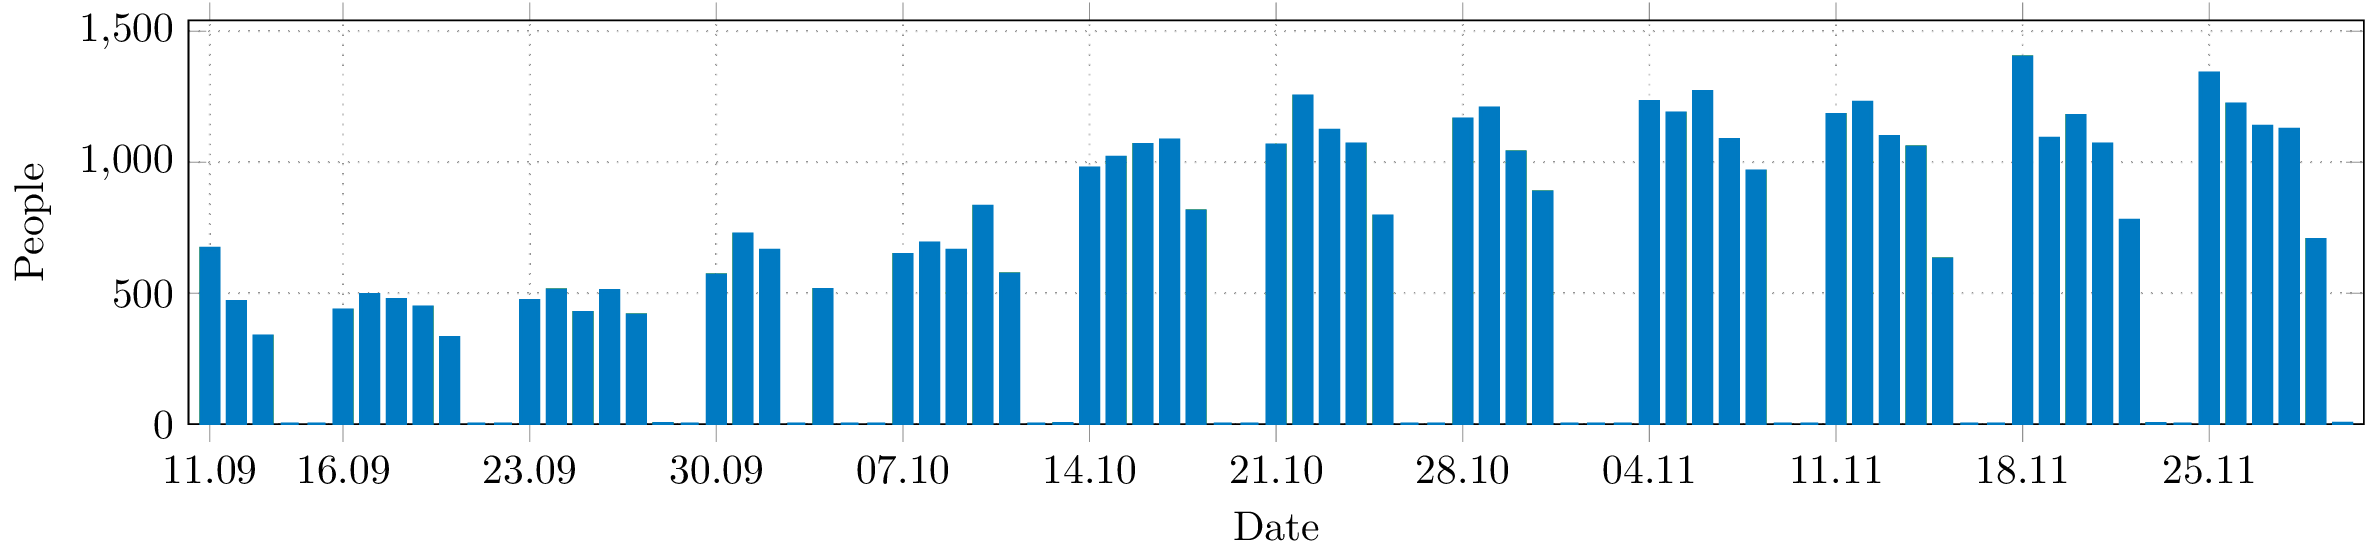
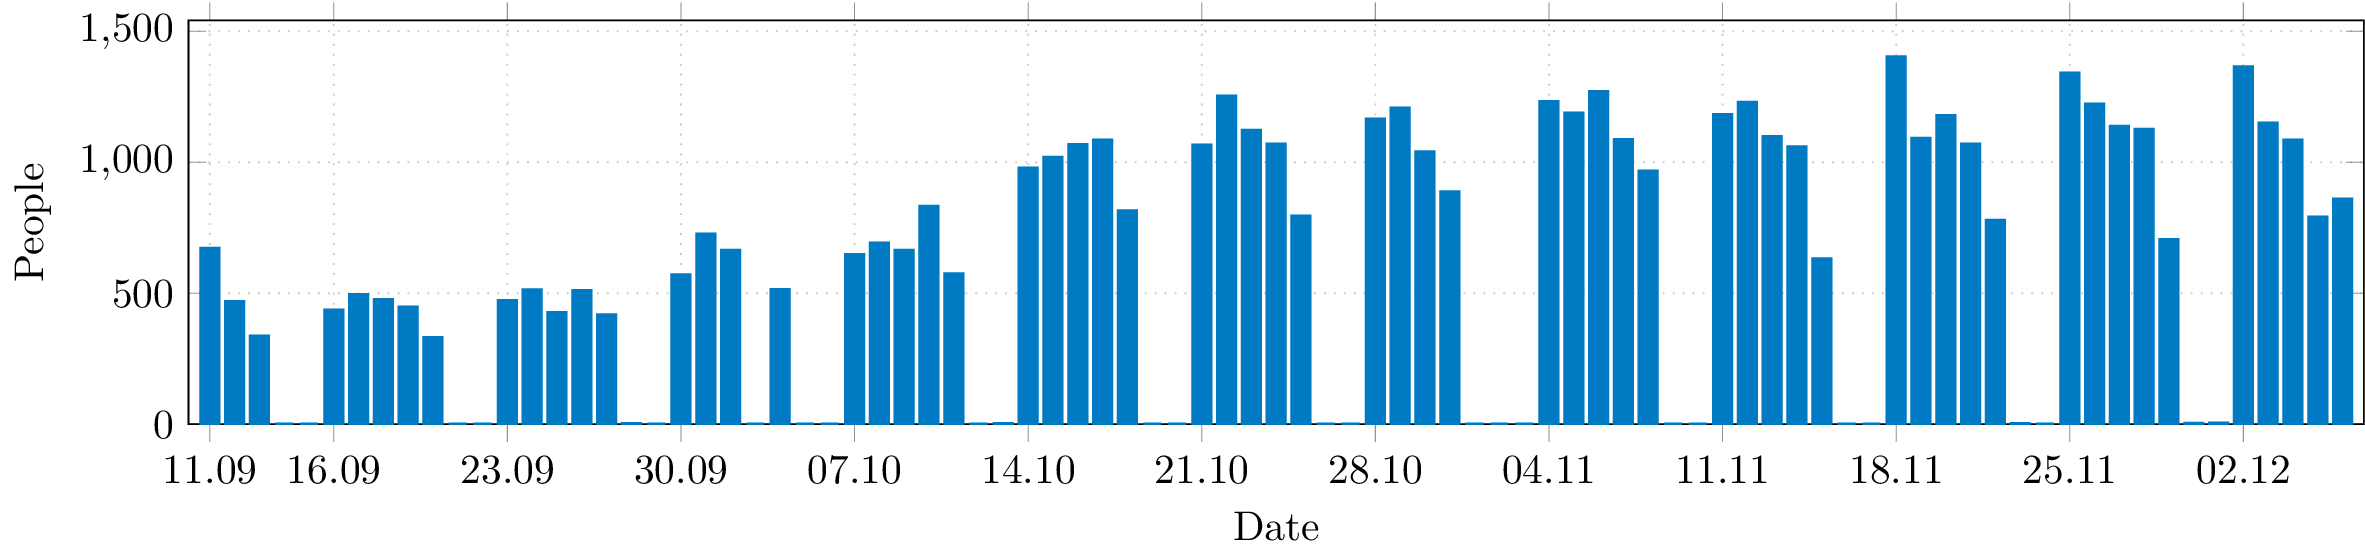
update data and fix graph width

Changed region(s): [[0.0926, 0.0921, 1.0, 0.7671], [0.1235, 0.7978, 0.9569, 0.8899]]

diff --git a/tex/single-day.tex b/tex/single-day.tex
@@ -37,8 +37,8 @@
 	timeplot, timeplot zero = 0,
 	enlarge x limits=0,
 	grid=major,
-	width=10cm,
-	height=5cm,
+	width=20cm,
+	height=7cm,
 	ymin=0,
 	xmin={10:30},
 	xmax={15:30},

diff --git a/tex/average.tex b/tex/average.tex
@@ -50,8 +50,8 @@
 	timeplot, timeplot zero = 0,
 	enlarge x limits=0,
 	grid=major,
-	width=13.5cm,
-	height=5cm,
+	width=20cm,
+	height=7cm,
 	ymin=0,
 	ymax=1600,
 	xmin={10:30},
